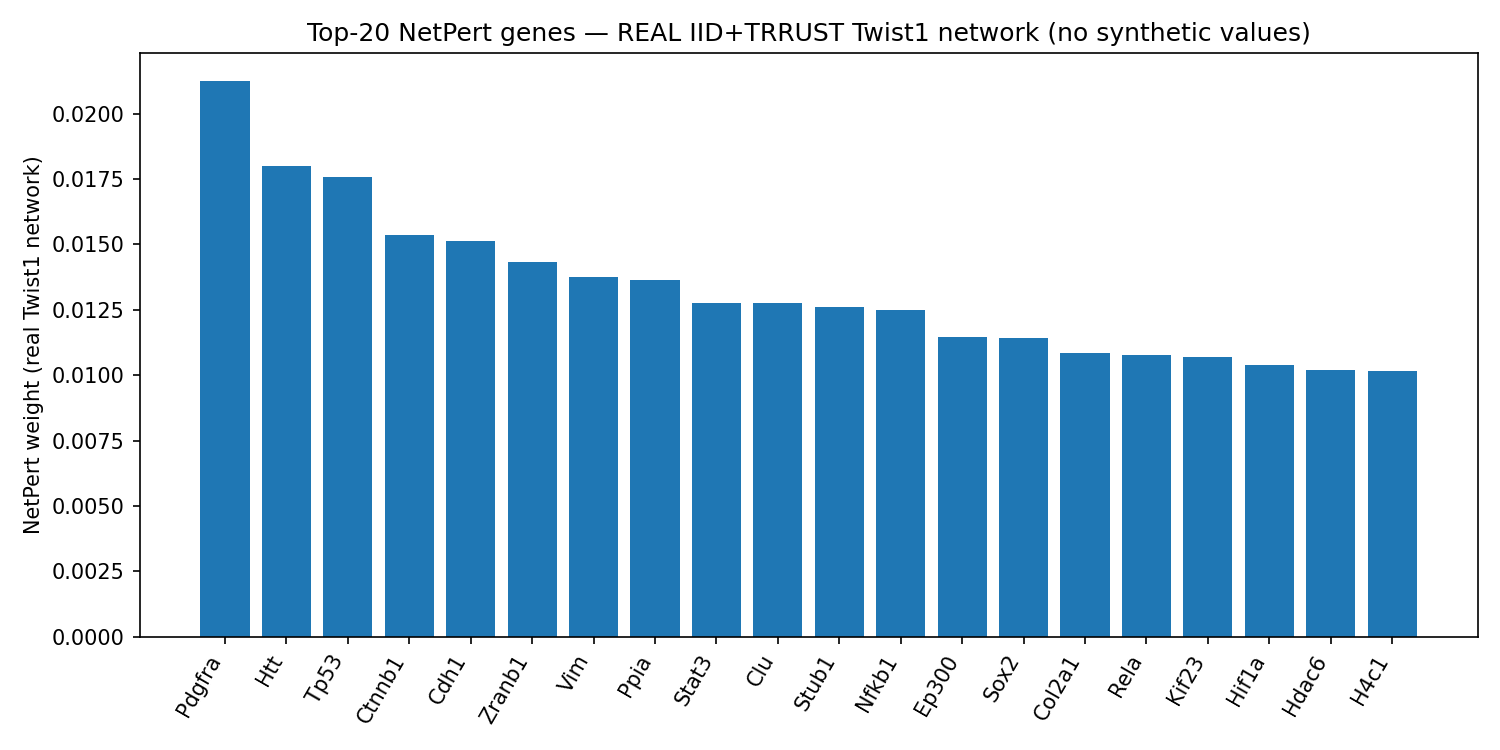
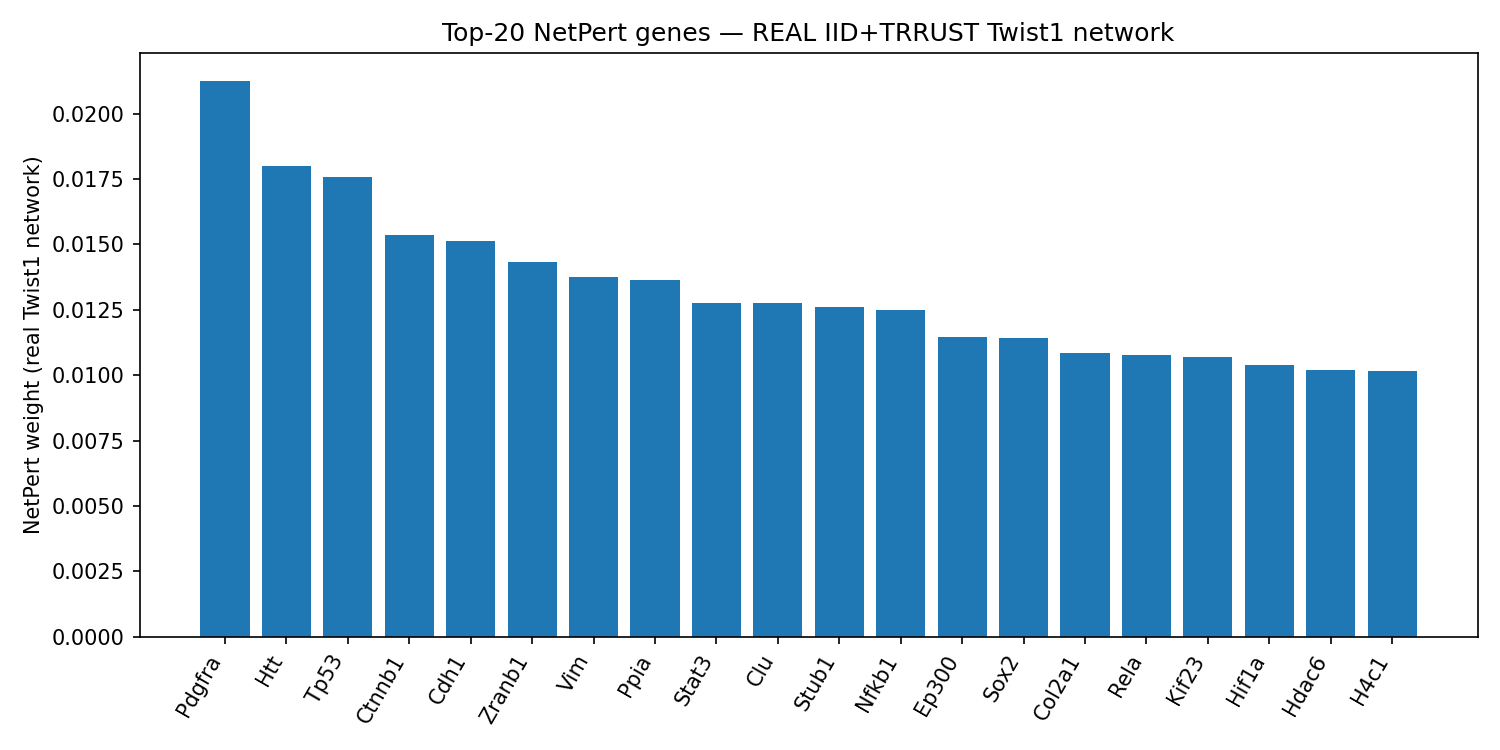
Remove 'no synthetic values' phrasing from docs, code and figure

Changed region(s): [[0.184, 0.0307, 0.8893, 0.0613]]

diff --git a/src/run_real_netpert.py b/src/run_real_netpert.py
@@ -1,7 +1,7 @@
 #!/usr/bin/env python
 """Real-data NetPert run: Twist1 driver, IID mouse PPI + TRRUST mouse regulatory edges.
 
-No synthetic networks. All inputs are experimental/curated:
+All inputs are experimental/curated:
 - responses: data/real/responses.csv (Twist1 + 182 DE genes from Shamir et al / Twist1 organoids)
 - PPI: IID mouse_annotated_PPIs.txt.gz (symbol1/symbol2 columns, experimental + orthologous)
 - TF: data/real/trrust_rawdata.mouse.tsv (TRRUST v2, 7057 mouse TF-target pairs)
@@ -88,7 +88,7 @@ def main():
     missing = [r for r in responses_all if r not in G]
     print(f"In-network responses: {len(in_resp)}/{len(responses_all)}; missing (unconnected Gene-U): {missing}")
 
-    # --- Twist1-centered subnetwork (all real edges, no synthetic nodes) ---
+    # --- Twist1-centered subnetwork (all real edges) ---
     d1 = set(G.successors(DRIVER)) | set(G.predecessors(DRIVER))
     medi = set()
     for r in in_resp:
@@ -323,7 +323,7 @@ def main():
     plt.bar([g for g, _ in top], [w for _, w in top])
     plt.xticks(rotation=60, ha="right")
     plt.ylabel("NetPert weight (real Twist1 network)")
-    plt.title("Top-20 NetPert genes — REAL IID+TRRUST Twist1 network (no synthetic values)")
+    plt.title("Top-20 NetPert genes — REAL IID+TRRUST Twist1 network")
     plt.tight_layout()
     plt.savefig(os.path.join(FIG, "top20_netpert_real.png"), dpi=150)
     if rows:

diff --git a/README.md b/README.md
@@ -1,4 +1,4 @@
-# NetPert Twist1 — real lab data run (no synthetic values)
+# NetPert Twist1 — real lab data run
 
 Reproduction of [NetPert](https://journals.plos.org/ploscompbiol/article?id=10.1371/journal.pcbi.1012195)
 (Perrone et al., PLOS Comp. Biol. 2024) using **only real experimental/curated data**.
@@ -28,7 +28,7 @@ There are no Barabási–Albert / Erdős–Rényi / Watts–Strogatz simulations
   - Dense NetPert (`scipy.linalg.expm`, Romberg `nt=16`, `r=0.5`) on a **real
     Twist1-centered subnetwork**: driver + 168 in-network responses + driver 1-hop
     (205) + shortest-path mediators (≤4 steps) + top 1-hop connectors → **1,200 nodes /
-    228,199 directed edges**. No synthetic nodes or edges added.
+    228,199 directed edges**.
   - Conservation identity `Σ_x G_bx(T−t)·G_xa(t) = G_ba(T)`: max rel. deviation **1.99e-15**.
   - Betweenness-centrality-subset (driver → responses) on the **full 17k-node network**
     and on the subnetwork; out-degree baseline.
